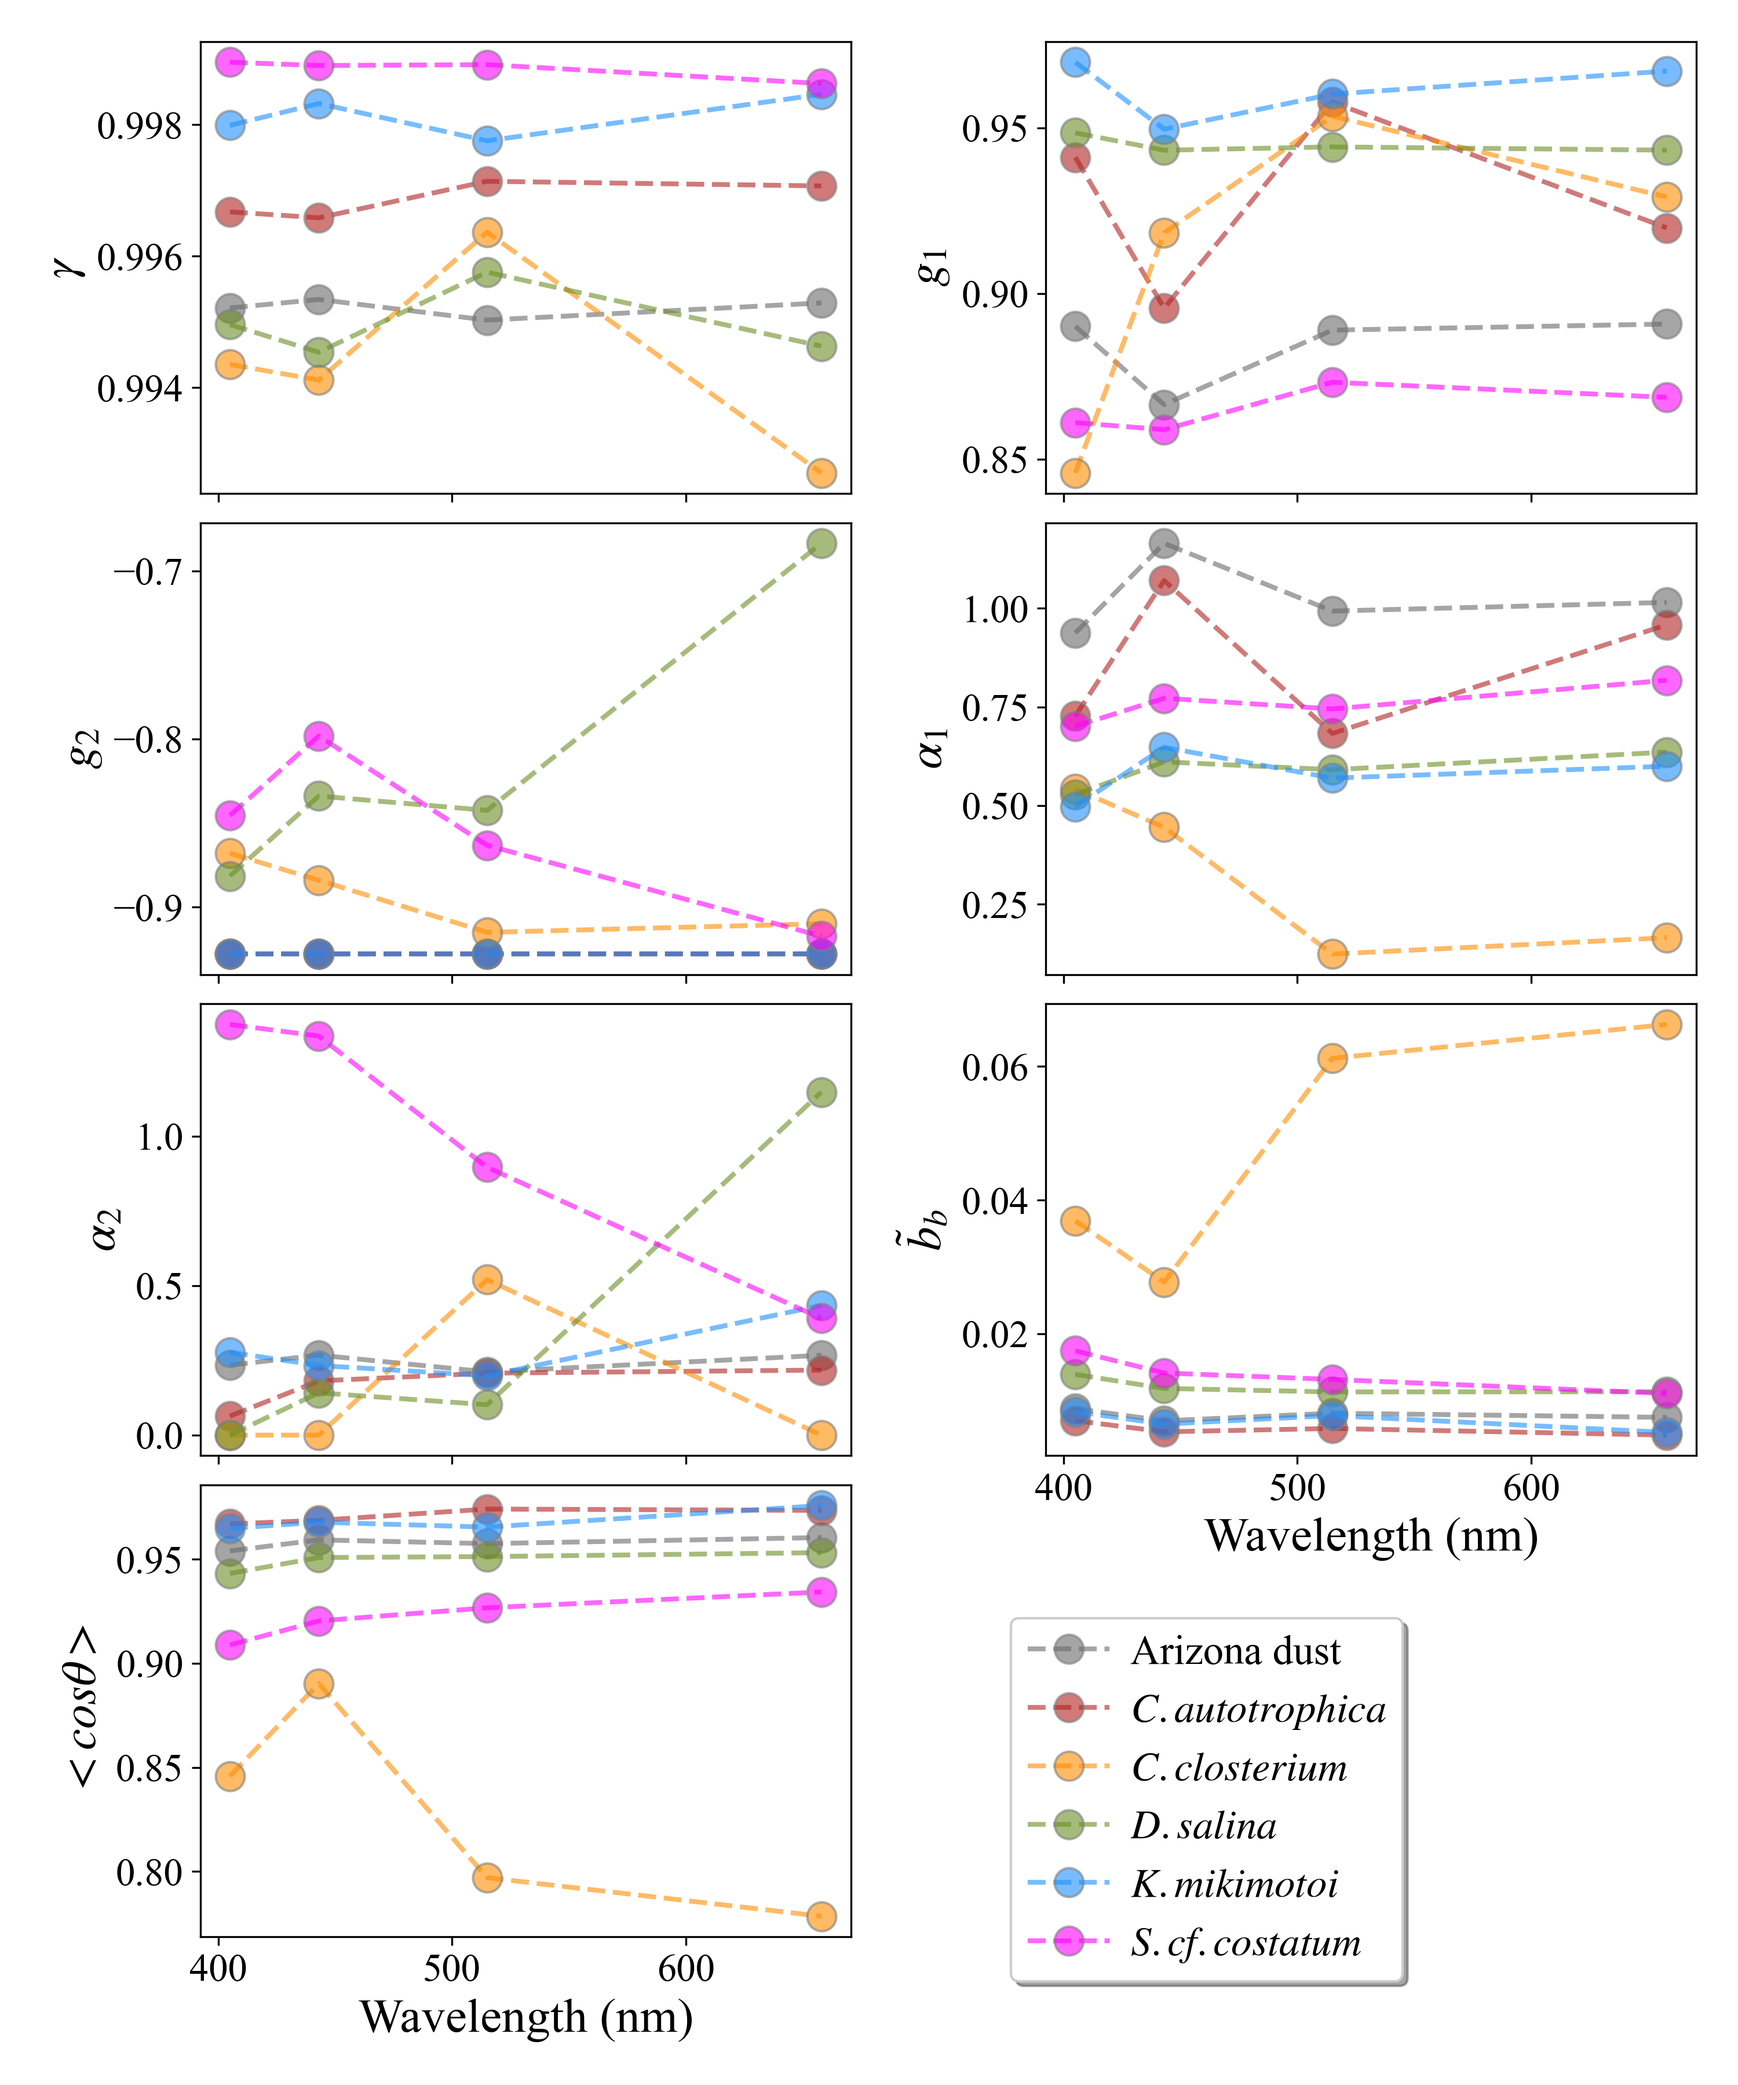
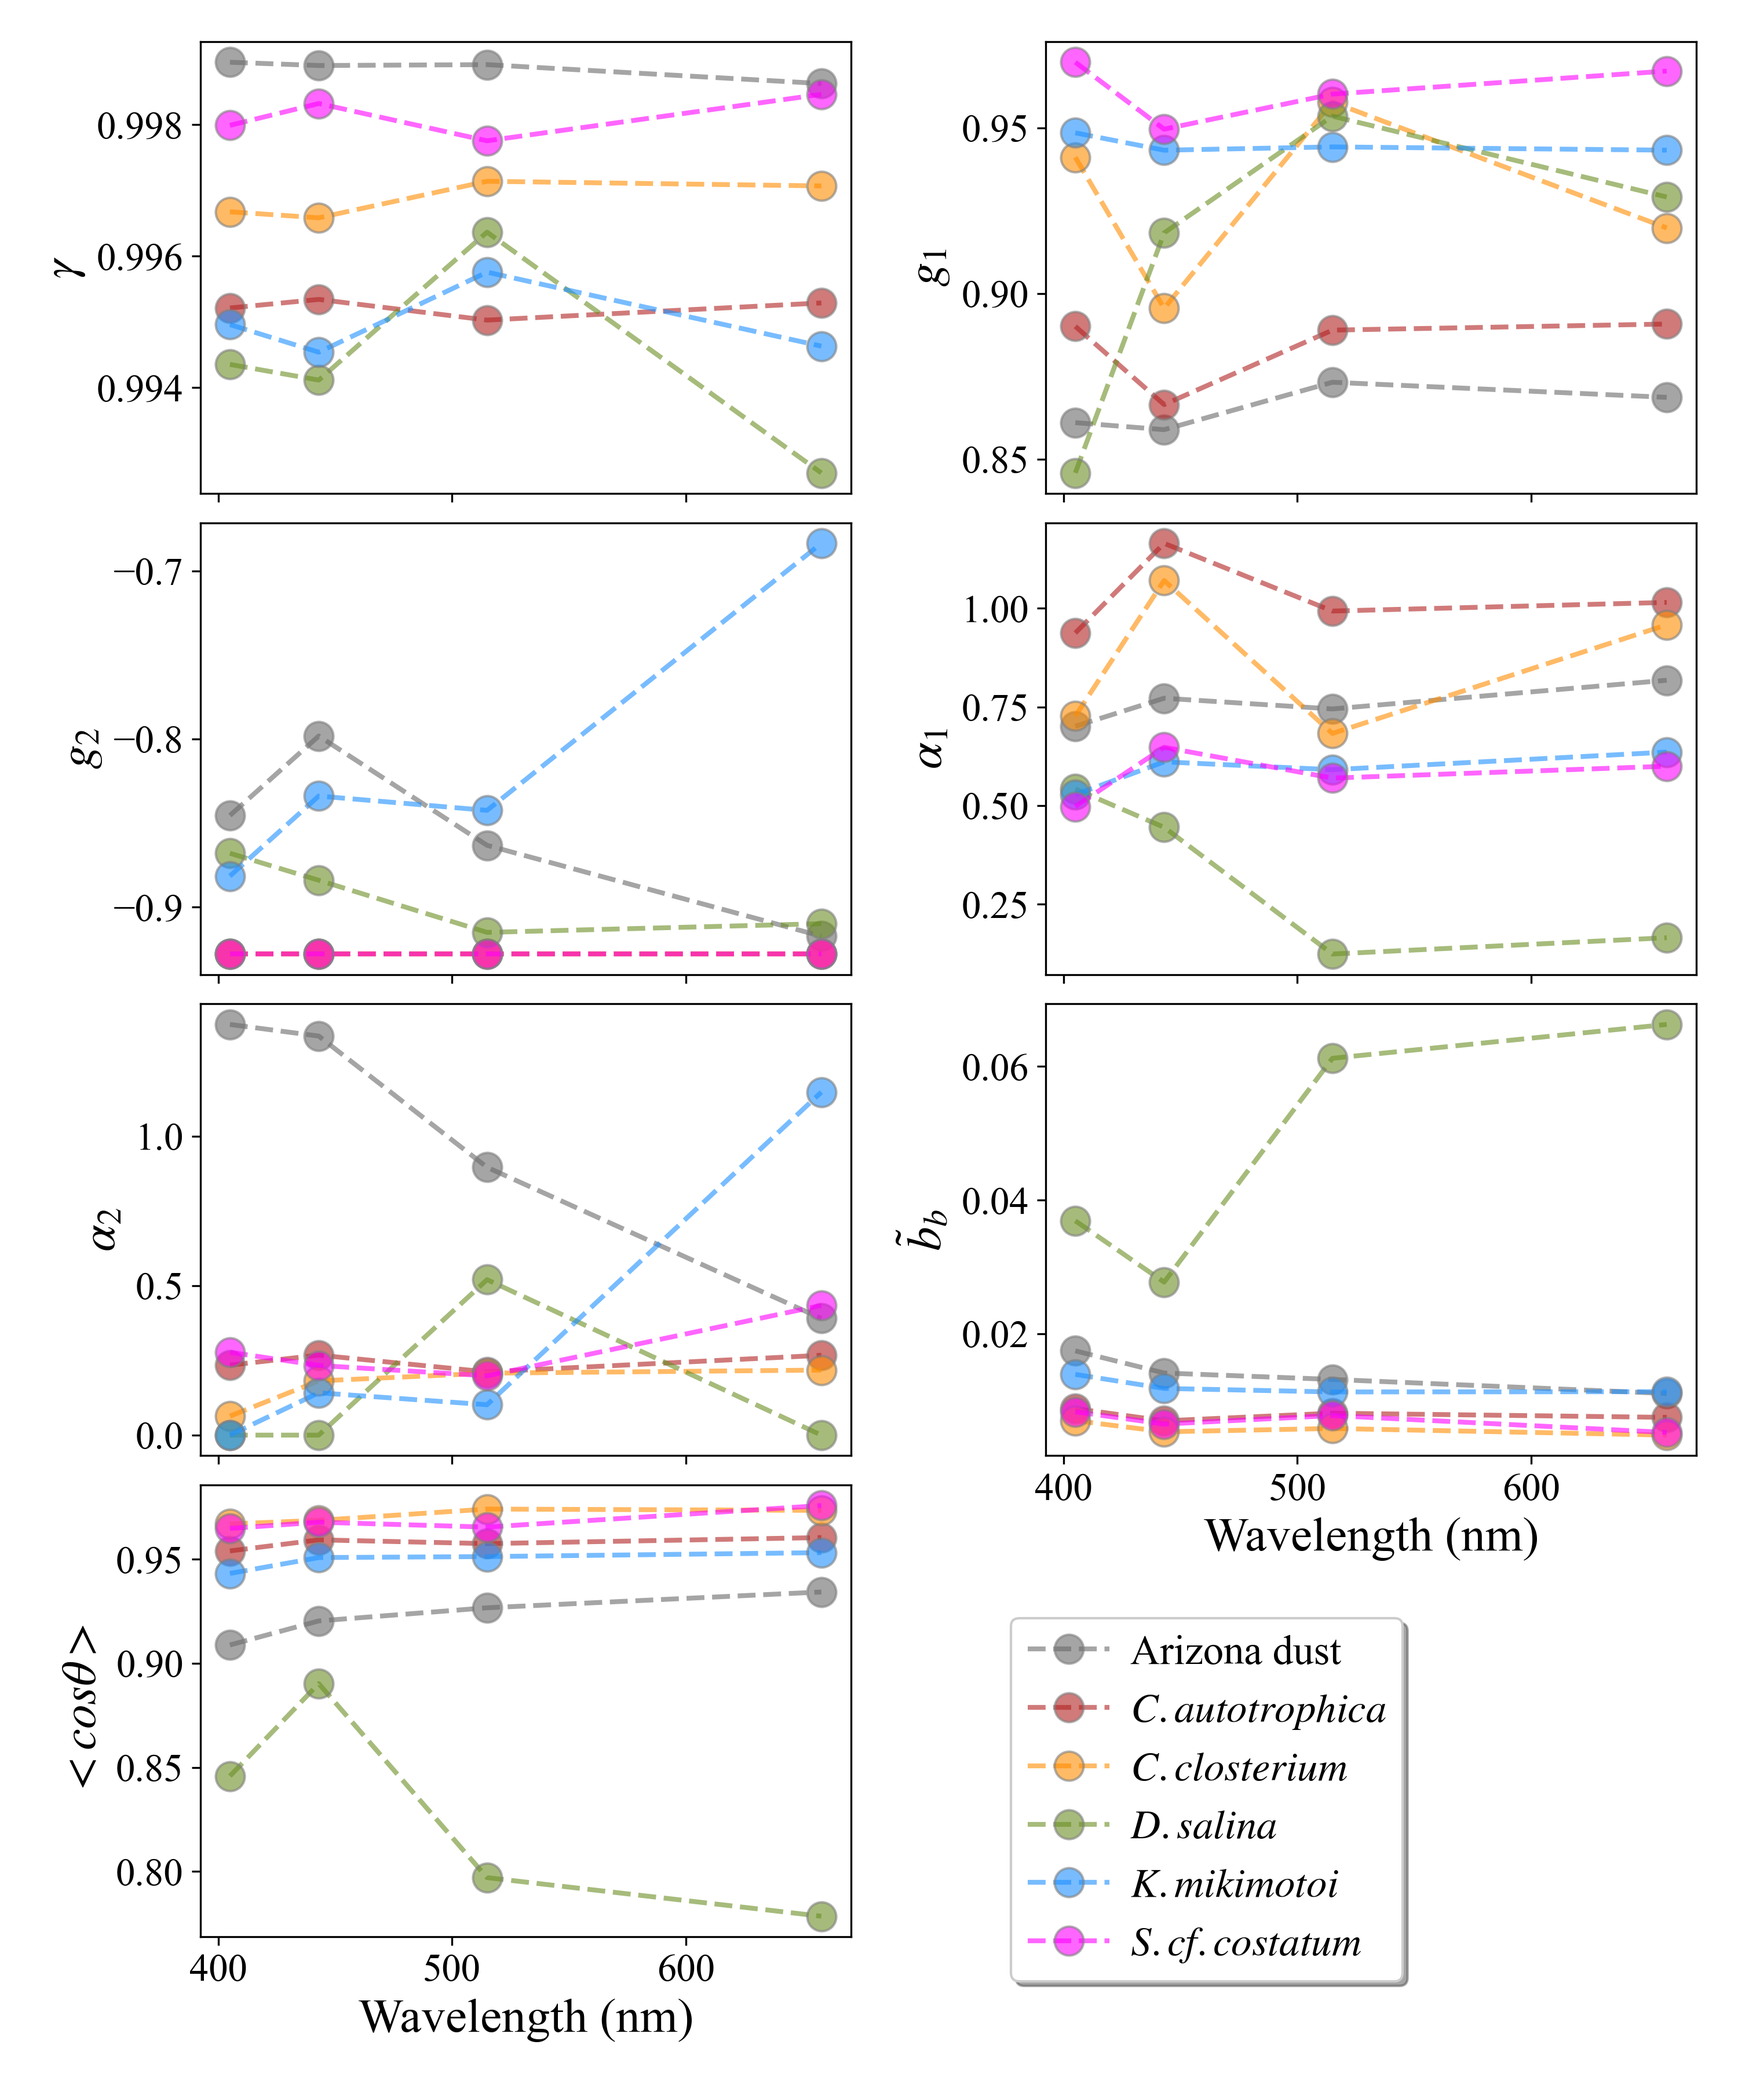
fix for color issue for fig legend

diff --git a/pffit/paper_fig.py b/pffit/paper_fig.py
@@ -175,6 +175,7 @@ for param in ('redchi', 'bic', 'aic', 'bb_ratio', 'asymmetry_factor'):
         res_=res[res['model']==model_]
         ax = axs[icol]
         ax.set_title(model_)
+        icolor=0
         for sample, group in res_.groupby('sample'):
             name = group.name.values[0]
             print(name)
@@ -182,15 +183,16 @@ for param in ('redchi', 'bic', 'aic', 'bb_ratio', 'asymmetry_factor'):
                 continue
             if icol == 3:
 
-                ax.plot(group.wavelength, group[param], label=name, linestyle='dashed', lw=2, marker='o', mec='grey',
-                        ms=12, alpha=0.6)
+                ax.plot(group.wavelength, group[param], label=name, linestyle='dashed', lw=2, marker='o',
+                        c=color_cycle[icolor], mec='grey', ms=12, alpha=0.6)
             else:
-                ax.plot(group.wavelength, group[param], linestyle='dashed', lw=2, marker='o', mec='grey', ms=12,
-                        alpha=0.6)
+                ax.plot(group.wavelength, group[param], linestyle='dashed', lw=2, marker='o',
+                        c=color_cycle[icolor], mec='grey', ms=12, alpha=0.6)
             if param == "redchi":
                 ax.set_ylabel(r'${\chi_\nu^2}$')
             else:
                 ax.set_ylabel(param)
+            icolor+=1
 
     axs[-1].set_xlabel('Wavelength (nm)')
     axs[-2].set_xlabel('Wavelength (nm)')
@@ -211,17 +213,24 @@ labels = ['$\gamma$', '$g_1$', '$g_2$', r'$\alpha _1$', r'$\alpha_2$', '$\~b_b$'
 for i, param in enumerate(['gamma', 'g1', 'g2', 'alpha1', 'alpha2', 'bb_ratio', 'asymmetry_factor']):
     ax = axs[i]
     ax.set_ylabel(labels[i])
-    for name, group in res_TTRM.groupby('name'):
+    icolor=0
+    for sample, group in res_TTRM.groupby('sample'):
+        name = group.name.values[0]
         if 'Petzold' in name:
             continue
+        print(name,icolor,color_cycle[icolor])
         # ax.errorbar(group.wavelength,group[param],yerr=group[param+'_std'],label=name,linestyle='dashed',lw=2, marker='o',mec='grey',ms=12,alpha=0.6)
-        ax.errorbar(group.wavelength, group[param], linestyle='dashed', lw=2, marker='o', mec='grey', ms=12, alpha=0.6)
+        ax.errorbar(group.wavelength, group[param], linestyle='dashed', lw=2, marker='o',c=color_cycle[icolor], mec='grey', ms=12, alpha=0.6)
+        icolor+=1
+icolor=0
 for sample, group in res_TTRM.groupby('sample'):
     name = group.name.values[0]
     if 'Petzold' in name:
         continue
-    axs[-1].errorbar(group.wavelength, group[param], label=name, linestyle='dashed', lw=2, marker='o', mec='grey',
+    print(name,icolor,color_cycle[icolor])
+    axs[-1].errorbar(group.wavelength, group[param], label=name, linestyle='dashed', lw=2, marker='o', c=color_cycle[icolor], mec='grey',
                      ms=12, alpha=0.6)
+    icolor+=1
 
 axs[-1].set_visible(False)
 
